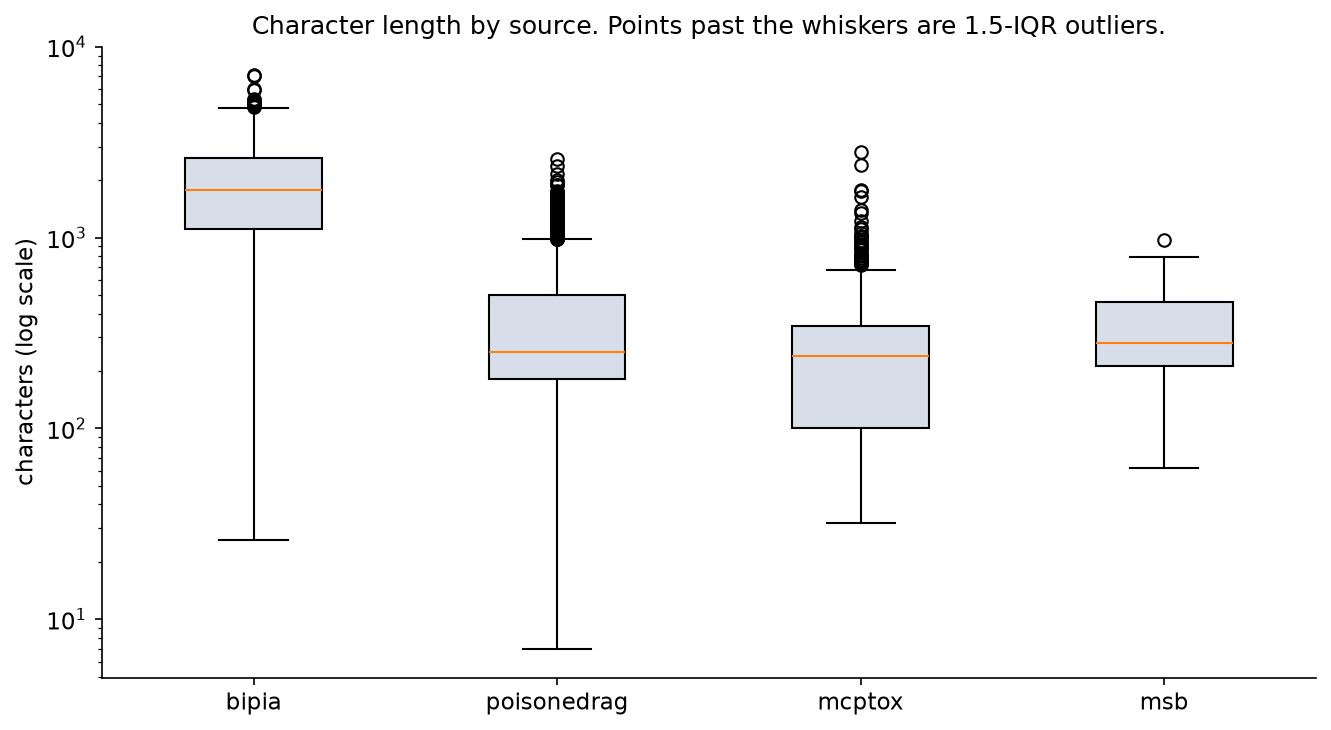
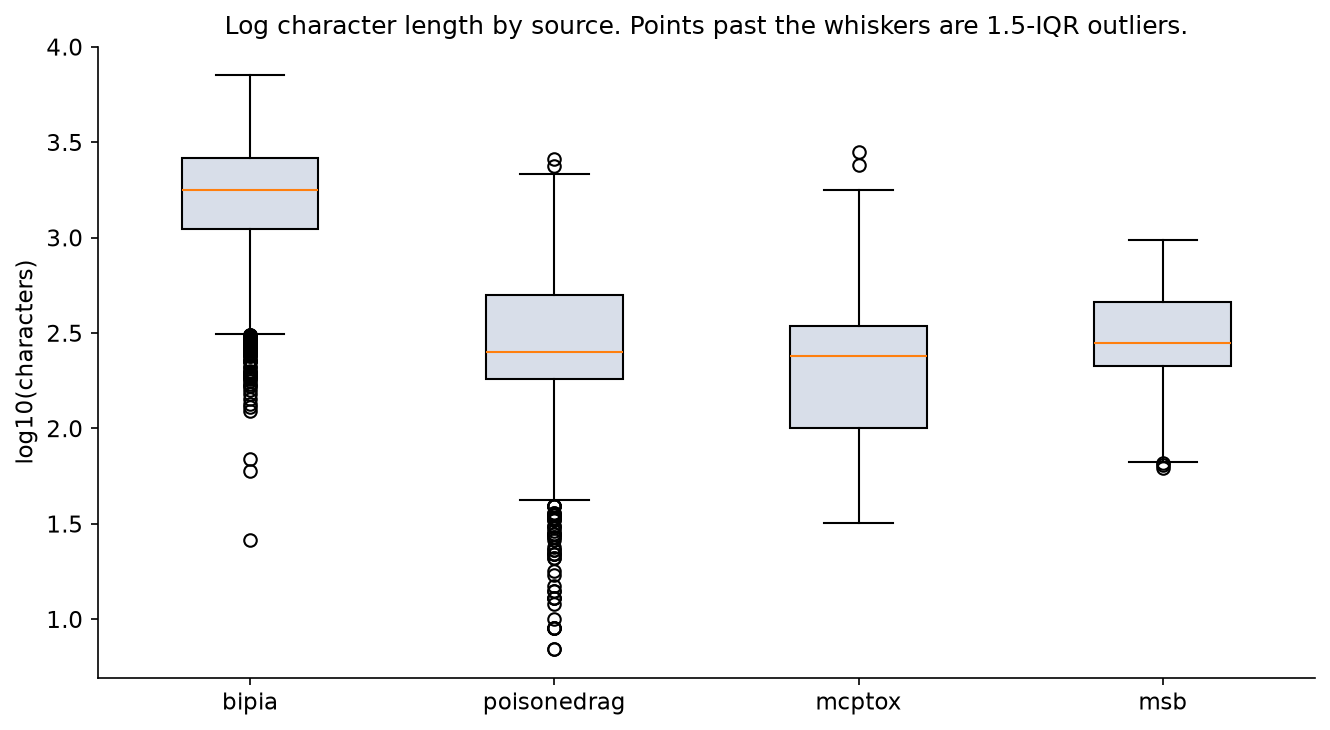
Correct the Phase 3 write-up's outlier, pooling and family claims
- Fence outliers on log length. The raw-length low fence fell below zero, so
  no short text could be flagged. The new fences surface 48 benign PoisonedRAG
  fragments (table cells, list items) that are a "very short means benign" cue.
- Rewrite the outlier prose. Every PoisonedRAG outlier under the old fences was
  a long benign passage, not a short adversarial one.
- Explain the pooled length signal as Simpson's paradox between BIPIA and
  PoisonedRAG, with the numbers computed from the train pool. The tool sources
  are not in the pool and too small to cause it.
- Count attack families by source (49 BIPIA, 32 MCPTox, 7 MSB, 1 PoisonedRAG)
  instead of calling the tail BIPIA's.
- Compute the subset sizes instead of "a few dozen", rename `letters` to
  `chars`, and show x tick labels on the top row of the length-reversal figure.

diff --git a/notebooks/phase3_eda.py b/notebooks/phase3_eda.py
@@ -87,10 +87,10 @@ def load_frame() -> pd.DataFrame:
     df["avg_word_len"] = [
         (sum(len(w) for w in ws) / len(ws)) if ws else 0.0 for ws in words
     ]
-    letters = text.str.len().replace(0, np.nan)
-    df["punct_rate"] = text.str.count(r"[^\w\s]") / letters
-    df["upper_rate"] = text.str.count(r"[A-Z]") / letters
-    df["digit_rate"] = text.str.count(r"\d") / letters
+    chars = text.str.len().replace(0, np.nan)
+    df["punct_rate"] = text.str.count(r"[^\w\s]") / chars
+    df["upper_rate"] = text.str.count(r"[A-Z]") / chars
+    df["digit_rate"] = text.str.count(r"\d") / chars
     df["label_name"] = df["label"].map({0: "benign", 1: "adversarial"})
     return df
 
@@ -261,37 +261,41 @@ def plot_missing(df: pd.DataFrame) -> pd.DataFrame:
 
 
 def plot_outliers(df: pd.DataFrame) -> pd.DataFrame:
+    # Fences on log10 length. Length is right-skewed, so a raw-length low fence falls below
+    # zero and can never flag the short fragments.
     records = []
-    flagged = pd.Series(False, index=df.index)
+    log_len = np.log10(df["char_len"])
     for source, part in df.groupby("source"):
-        q1, q3 = part["char_len"].quantile([0.25, 0.75])
+        values = log_len.loc[part.index]
+        q1, q3 = values.quantile([0.25, 0.75])
         iqr = q3 - q1
         low, high = q1 - 1.5 * iqr, q3 + 1.5 * iqr
-        mask = (part["char_len"] < low) | (part["char_len"] > high)
-        flagged.loc[part.index] = mask.to_numpy()
+        below, above = values < low, values > high
+        mask = below | above
         records.append(
             {
                 "source": source,
                 "rows": int(len(part)),
                 "outliers": int(mask.sum()),
                 "outlier_share": float(mask.mean()),
-                "fence_low": float(low),
-                "fence_high": float(high),
-                "min": int(part["char_len"].min()),
-                "max": int(part["char_len"].max()),
+                "below": int(below.sum()),
+                "below_benign": int((below & part["label"].eq(0)).sum()),
+                "above": int(above.sum()),
+                "above_benign": int((above & part["label"].eq(0)).sum()),
+                "fence_low": float(10**low),
+                "fence_high": float(10**high),
             }
         )
     summary = pd.DataFrame(records).sort_values("source")
 
     order = ["bipia", "poisonedrag", "mcptox", "msb"]
     fig, ax = plt.subplots(figsize=(9, 5))
-    data = [df.loc[df["source"].eq(source), "char_len"] for source in order]
+    data = [log_len[df["source"].eq(source)] for source in order]
     box = ax.boxplot(data, tick_labels=order, showfliers=True, patch_artist=True)
     for patch in box["boxes"]:
         patch.set_facecolor("#D8DEE9")
-    ax.set_yscale("log")
-    ax.set_ylabel("characters (log scale)")
-    ax.set_title("Character length by source. Points past the whiskers are 1.5-IQR outliers.")
+    ax.set_ylabel("log10(characters)")
+    ax.set_title("Log character length by source. Points past the whiskers are 1.5-IQR outliers.")
     fig.tight_layout()
     _save(fig, "05_length_outliers.png")
     return summary
@@ -342,6 +346,7 @@ def plot_insight(df: pd.DataFrame) -> dict[str, dict[str, float]]:
             ax.axvline(np.log10(median), color=color, linestyle="--", linewidth=1)
         ax.set_title(source)
         ax.set_xlabel("log10(characters)")
+        ax.tick_params(labelbottom=True)
     axes[0, 0].legend(frameon=False)
     fig.suptitle(
         "The same cue points opposite ways: poisoned passages are shorter, injected tool text is longer",
@@ -366,9 +371,32 @@ def write_report(df: pd.DataFrame, corr: dict, missing: pd.DataFrame, outliers: 
     for source, stats in corr["by_source"].iterrows():
         by_source_rows.append([source, f"{stats['log_char_len']:+.2f}", f"{medians[source].get('benign', float('nan')):,.0f}", f"{medians[source].get('adversarial', float('nan')):,.0f}"])
     outlier_rows = [
-        [r.source, f"{r.outliers:,}", f"{r.outlier_share:.1%}", f"{r.min:,}", f"{r.max:,.0f}"]
+        [
+            r.source,
+            f"{r.outliers:,}",
+            f"{r.outlier_share:.1%}",
+            f"{r.below:,} ({r.below_benign:,} benign)",
+            f"{r.above:,} ({r.above_benign:,} benign)",
+            f"{r.fence_low:,.0f} to {r.fence_high:,.0f}",
+        ]
         for r in outliers.itertuples()
     ]
+    rag_fragments = outliers.set_index("source").loc["poisonedrag"]
+    shortest = df.loc[df["source"].eq("poisonedrag")].nsmallest(4, "char_len")["text"]
+    shortest_quoted = ", ".join(f"`{t}`" for t in shortest)
+
+    subset_sizes = df["subset"].value_counts()
+    small = subset_sizes[subset_sizes < 100]
+    small_sources = " and ".join(sorted(df.loc[df["subset"].isin(small.index), "source"].unique()))
+
+    families = df.loc[df["label"].eq(1)].groupby("attack_family")["source"].first().value_counts()
+    family_split = ", ".join(f"{n} from {s}" for s, n in families.items())
+
+    pool = df.loc[df["role"].eq("train_pool") & df["split"].eq("train")]
+    pool_rho = float(spearmanr(pool["char_len"], pool["label"]).statistic)
+    pool_by_source = pool.groupby("source").agg(adv=("label", "mean"), median=("char_len", "median"))
+    rag_rho = float(corr["by_source"].loc["poisonedrag", "log_char_len"])
+    bipia, rag = pool_by_source.loc["bipia"], pool_by_source.loc["poisonedrag"]
     missing_rows = [
         [r.column, f"{r.nulls:,}", f"{r.nulls_on_benign:,}", f"{r.nulls_on_adversarial:,}"]
         for r in missing.sort_values("column").itertuples()
@@ -384,15 +412,15 @@ Figures for the unified corpus in `data/processed/dataset.parquet`: {len(df):,} 
 
 ![Categorical distributions](figures/01_categorical_distributions.png)
 
-`subset` has 60 values. Eight collections hold almost all of the rows. The rest are individual MCP tool servers, each with a few dozen rows, so they are counted in the caption rather than drawn as sixty bars.
+`subset` has {len(subset_sizes)} values. {len(subset_sizes) - len(small)} collections hold almost all of the rows. The other {len(small)} are individual MCP tool servers from {small_sources}, with {small.min()} to {small.max()} rows each ({small.sum():,} in total), so they are counted in the caption rather than drawn as {len(subset_sizes)} bars.
 
 ![Large subsets](figures/01b_subset.png)
 
-Attack family, counted on adversarial rows only. Benign rows leave this field empty on purpose. PoisonedRAG is one family of 1,500 rows; the long tail is BIPIA's attack categories.
+Attack family, counted on adversarial rows only. Benign rows leave this field empty on purpose. PoisonedRAG is one family of {int(df["attack_family"].eq("poisonedrag").sum()):,} rows. The {int(families.sum())} families split {family_split}. Apart from PoisonedRAG, the named bars are all BIPIA categories; the MCPTox and MSB attack templates are in the "other" bar.
 
 ![Attack family](figures/01c_attack_family.png)
 
-Text statistics, pooled. Pooling hides the pattern in the last figure: a single histogram of length looks almost the same for both classes because PoisonedRAG and the tool sources pull in opposite directions.
+Text statistics, pooled. Pooling hides the pattern in the last figure: a single histogram of length looks almost the same for both classes. The tool sources are too small to cause that. The cancellation is between BIPIA and PoisonedRAG, which make up the whole training pool (see the last section).
 
 ![Numeric distributions](figures/02_numeric_distributions.png)
 
@@ -420,11 +448,13 @@ A model that is allowed to see `attack_kind` can read the label off the missingn
 
 ## Outliers
 
-An outlier is a character length outside the 1.5-IQR fences of its own source. The long BIPIA documents are real emails, articles and tables, not broken rows. PoisonedRAG's adversarial texts are short because the attack writes a short passage, not because those rows are corrupt.
+An outlier is a log character length outside the 1.5-IQR fences of its own source. The fences use log length because length is right-skewed: on raw length the low fence falls below zero and no short text can ever be flagged.
 
 ![Length outliers](figures/05_length_outliers.png)
 
-{_md_table(["Source", "Outlier rows", "Share", "Shortest", "Longest"], outlier_rows)}
+{_md_table(["Source", "Outlier rows", "Share", "Below low fence", "Above high fence", "Fences (characters)"], outlier_rows)}
+
+The short BIPIA rows are real: brief answers to coding questions and one-line news captions, with and without an inserted attack. The short PoisonedRAG rows are not passages. All {int(rag_fragments.below)} are benign fragments of the retrieval corpus, such as {shortest_quoted}: table cells, list items and headings that the passage split left on their own. They are not corrupt and are too few to move the benign median, but they are a cue a detector could learn: every PoisonedRAG text shorter than {rag_fragments.fence_low:,.0f} characters is benign. The short MSB rows are one-line tool descriptions.
 
 ## Target
 
@@ -440,7 +470,9 @@ On PoisonedRAG the adversarial passages sit to the left of the benign retrieved 
 
 ![Length reversal](figures/07_length_reversal.png)
 
-That is why a length-only model fit on the pooled training set looks useless in-distribution and then looks strong on MCPTox and MSB. It learned one direction and the held-out tool descriptions happen to match that direction, while PoisonedRAG matches the other one. Any detector score has to be compared with length inside each source. The numbers for that comparison are already in `DATA_CARD.md`, from `src/models/baselines.py`.
+The pooled training set (`train_pool`, train split) is only BIPIA and PoisonedRAG, and its Spearman correlation between length and label is {pool_rho:+.2f}. Two effects cancel. Inside PoisonedRAG, adversarial passages are shorter ({rag_rho:+.2f}). Between the sources, the longer one has more attacks: BIPIA has a median of {bipia["median"]:,.0f} characters and is {bipia["adv"]:.0%} adversarial, while PoisonedRAG has a median of {rag["median"]:,.0f} and is {rag["adv"]:.0%} adversarial. This is Simpson's paradox: the pooled trend is set by which source a row comes from, not by what length does inside a source.
+
+That is why a length-only model fit on the pooled training set looks useless in-distribution and then looks strong on MCPTox and MSB. The between-source effect teaches it that longer means adversarial. The held-out tool descriptions happen to match that direction, while PoisonedRAG, inside itself, runs the other way. Any detector score has to be compared with length inside each source. The numbers for that comparison are already in `DATA_CARD.md`, from `src/models/baselines.py`.
 """
     WRITEUP.write_text(text)
 

diff --git a/notebooks/PHASE3_VISUAL_DATA.md b/notebooks/PHASE3_VISUAL_DATA.md
@@ -8,15 +8,15 @@ Figures for the unified corpus in `data/processed/dataset.parquet`: 11,005 rows,
 
 ![Categorical distributions](figures/01_categorical_distributions.png)
 
-`subset` has 60 values. Eight collections hold almost all of the rows. The rest are individual MCP tool servers, each with a few dozen rows, so they are counted in the caption rather than drawn as sixty bars.
+`subset` has 60 values. 8 collections hold almost all of the rows. The other 52 are individual MCP tool servers from mcptox and msb, with 2 to 58 rows each (938 in total), so they are counted in the caption rather than drawn as 60 bars.
 
 ![Large subsets](figures/01b_subset.png)
 
-Attack family, counted on adversarial rows only. Benign rows leave this field empty on purpose. PoisonedRAG is one family of 1,500 rows; the long tail is BIPIA's attack categories.
+Attack family, counted on adversarial rows only. Benign rows leave this field empty on purpose. PoisonedRAG is one family of 1,500 rows. The 89 families split 49 from bipia, 32 from mcptox, 7 from msb, 1 from poisonedrag. Apart from PoisonedRAG, the named bars are all BIPIA categories; the MCPTox and MSB attack templates are in the "other" bar.
 
 ![Attack family](figures/01c_attack_family.png)
 
-Text statistics, pooled. Pooling hides the pattern in the last figure: a single histogram of length looks almost the same for both classes because PoisonedRAG and the tool sources pull in opposite directions.
+Text statistics, pooled. Pooling hides the pattern in the last figure: a single histogram of length looks almost the same for both classes. The tool sources are too small to cause that. The cancellation is between BIPIA and PoisonedRAG, which make up the whole training pool (see the last section).
 
 ![Numeric distributions](figures/02_numeric_distributions.png)
 
@@ -53,16 +53,18 @@ A model that is allowed to see `attack_kind` can read the label off the missingn
 
 ## Outliers
 
-An outlier is a character length outside the 1.5-IQR fences of its own source. The long BIPIA documents are real emails, articles and tables, not broken rows. PoisonedRAG's adversarial texts are short because the attack writes a short passage, not because those rows are corrupt.
+An outlier is a log character length outside the 1.5-IQR fences of its own source. The fences use log length because length is right-skewed: on raw length the low fence falls below zero and no short text can ever be flagged.
 
 ![Length outliers](figures/05_length_outliers.png)
 
-| Source | Outlier rows | Share | Shortest | Longest |
-|---|---|---|---|---|
-| bipia | 14 | 0.2% | 26 | 7,107 |
-| mcptox | 35 | 4.1% | 32 | 2,818 |
-| msb | 1 | 1.1% | 62 | 972 |
-| poisonedrag | 178 | 4.0% | 7 | 2,569 |
+| Source | Outlier rows | Share | Below low fence | Above high fence | Fences (characters) |
+|---|---|---|---|---|---|
+| bipia | 92 | 1.6% | 92 (69 benign) | 0 (0 benign) | 311 to 9,374 |
+| mcptox | 2 | 0.2% | 0 (0 benign) | 2 (2 benign) | 16 to 2,219 |
+| msb | 3 | 3.3% | 3 (3 benign) | 0 (0 benign) | 67 to 1,473 |
+| poisonedrag | 50 | 1.1% | 48 (48 benign) | 2 (2 benign) | 39 to 2,336 |
+
+The short BIPIA rows are real: brief answers to coding questions and one-line news captions, with and without an inserted attack. The short PoisonedRAG rows are not passages. All 48 are benign fragments of the retrieval corpus, such as `Side A:`, `Side B:`, `(At 0:38)`, `7" single`: table cells, list items and headings that the passage split left on their own. They are not corrupt and are too few to move the benign median, but they are a cue a detector could learn: every PoisonedRAG text shorter than 39 characters is benign. The short MSB rows are one-line tool descriptions.
 
 ## Target
 
@@ -78,4 +80,6 @@ On PoisonedRAG the adversarial passages sit to the left of the benign retrieved 
 
 ![Length reversal](figures/07_length_reversal.png)
 
-That is why a length-only model fit on the pooled training set looks useless in-distribution and then looks strong on MCPTox and MSB. It learned one direction and the held-out tool descriptions happen to match that direction, while PoisonedRAG matches the other one. Any detector score has to be compared with length inside each source. The numbers for that comparison are already in `DATA_CARD.md`, from `src/models/baselines.py`.
+The pooled training set (`train_pool`, train split) is only BIPIA and PoisonedRAG, and its Spearman correlation between length and label is +0.02. Two effects cancel. Inside PoisonedRAG, adversarial passages are shorter (-0.56). Between the sources, the longer one has more attacks: BIPIA has a median of 1,833 characters and is 50% adversarial, while PoisonedRAG has a median of 253 and is 34% adversarial. This is Simpson's paradox: the pooled trend is set by which source a row comes from, not by what length does inside a source.
+
+That is why a length-only model fit on the pooled training set looks useless in-distribution and then looks strong on MCPTox and MSB. The between-source effect teaches it that longer means adversarial. The held-out tool descriptions happen to match that direction, while PoisonedRAG, inside itself, runs the other way. Any detector score has to be compared with length inside each source. The numbers for that comparison are already in `DATA_CARD.md`, from `src/models/baselines.py`.
